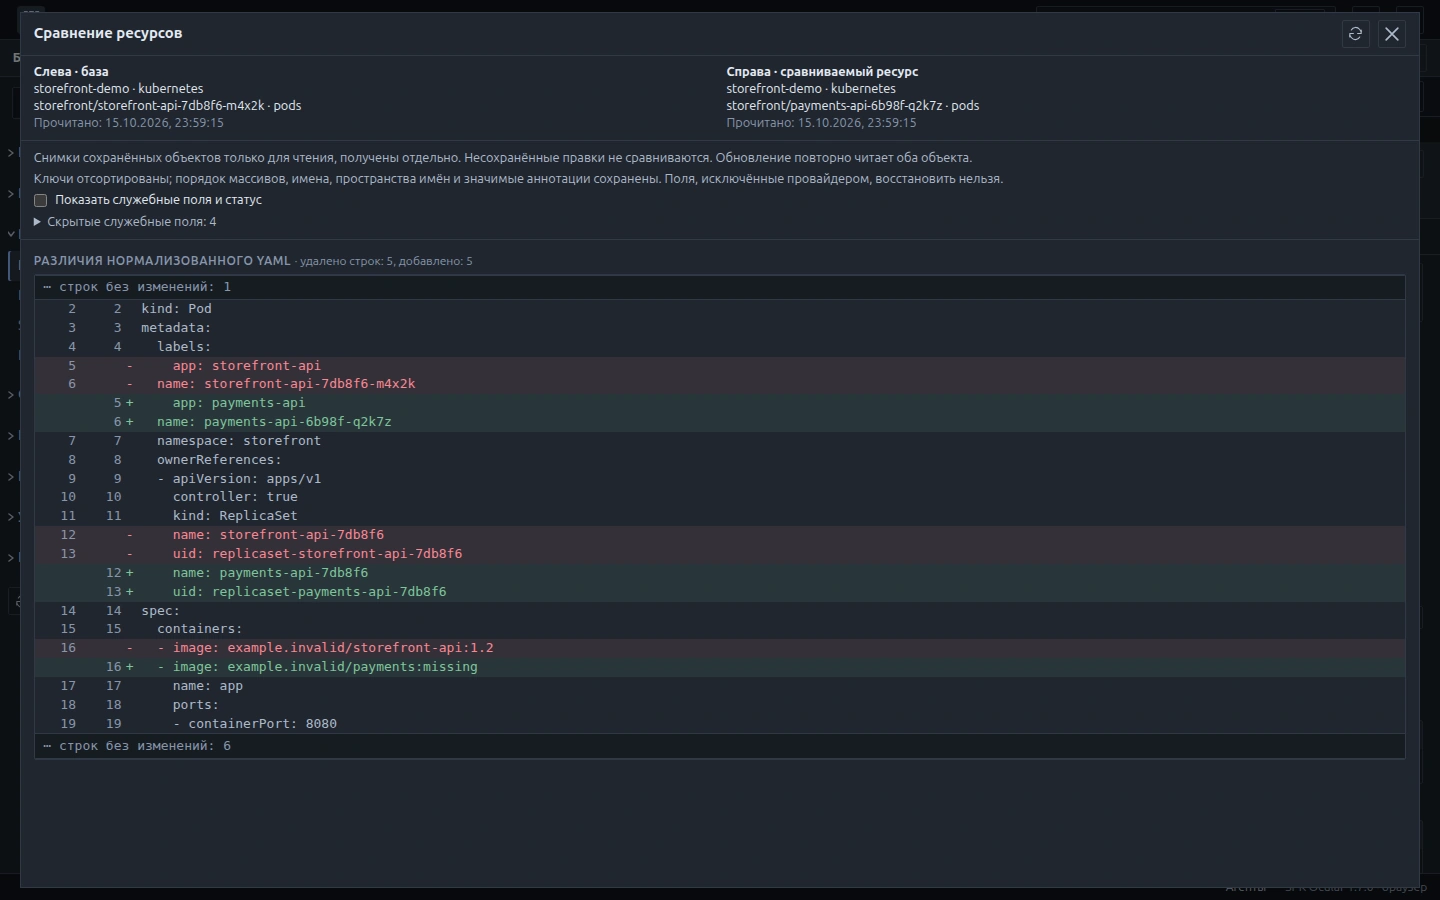
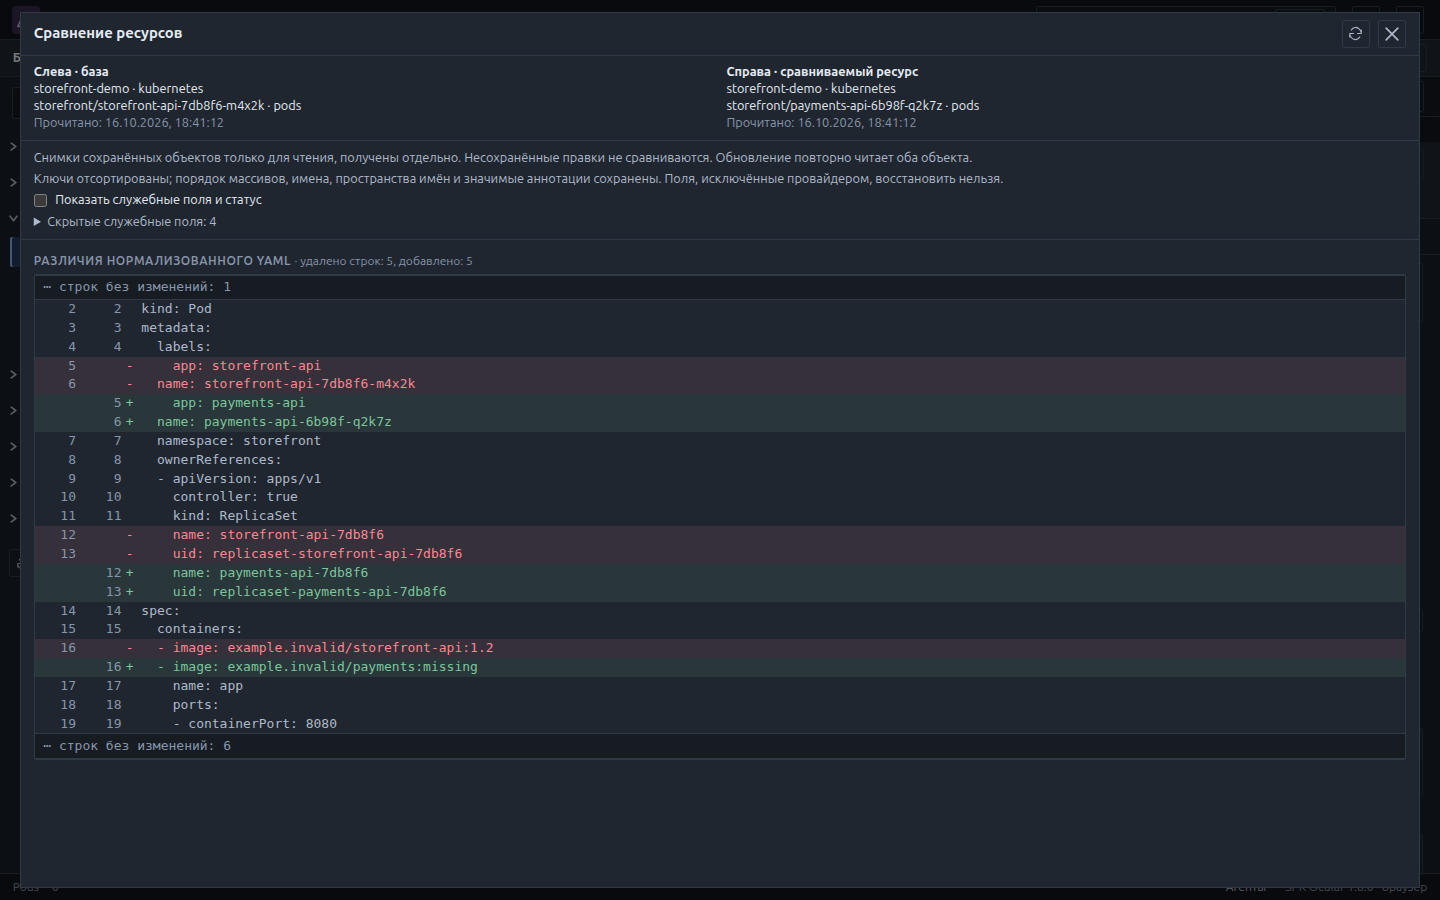
Refresh website screenshots from published Ocular 1.8.0

diff --git a/src/i18n/copy.ts b/src/i18n/copy.ts
@@ -58,7 +58,7 @@ export const en = {
   filesCaption: "Actual app · simulated Docker Engine data",
   toolsTitle: 'The everyday tools, already here.',
   tools: [["Quick navigation · Ctrl+K", "Jump to views, environments and namespaces, or find resources by type and name, such as dep model, within your selected namespaces. Use Command+K on macOS."], ['Kubernetes resources', 'Pods, deployments, services and custom resources, with details and relationships.'], ['Docker', 'Inspect standalone containers alongside Compose projects and services. Follow logs, open a terminal and review container actions.'], ['Reviewed changes', 'Inspect a change before applying it. Existing infrastructure permissions still apply.'], ['A workspace that remembers', 'Keep namespace selections, filters, favorites and column widths between visits.']],
-  gallery: 'A closer look at your next workspace.', galleryText: "Real screens from SPK Ocular 1.7.0. Demo data, not product mockups.",
+  gallery: 'A closer look at your next workspace.', galleryText: "Real screens from SPK Ocular 1.8.0. Demo data, not product mockups.",
   galleryTabs: ['Workloads', 'Logs & details', 'Helm releases', 'Docker containers'],
   galleryAlts: ['Kubernetes pods and health in SPK Ocular on a local demo cluster', 'Kubernetes resource details and application logs in SPK Ocular', 'Helm release values in SPK Ocular using a simulated release', 'Standalone Docker container and Compose containers in SPK Ocular on a local demo engine'],
   agentLabel: 'YOUR AGENTS. YOUR RULES.', agentTitle: 'Give your agent useful access. Keep control of changes.',
@@ -144,7 +144,7 @@ export const ru: Copy = {
   filesCaption: "Настоящее приложение · имитация данных Docker Engine",
   toolsTitle: 'Рабочие инструменты уже на месте.',
   tools: [["Быстрый переход · Ctrl+K", "Переходите к разделам, окружениям и пространствам имён или находите ресурсы по типу и имени, например dep model, в выбранных пространствах имён. На macOS используйте Command+K."], ['Ресурсы Kubernetes', 'Pods, deployments, services и пользовательские ресурсы с подробностями и связями.'], ['Docker', 'Отдельные контейнеры и проекты с сервисами Compose. Просматривайте логи, открывайте терминал и проверяйте действия с контейнерами.'], ['Проверка изменений', 'Просматривайте изменения перед применением. Права доступа инфраструктуры продолжают действовать.'], ['Рабочее место с памятью', 'Выбранные пространства имён, фильтры, избранное и ширины колонок сохраняются.']],
-  gallery: 'Посмотрите, как это устроено.', galleryText: "Настоящие экраны SPK Ocular 1.7.0. Демонстрационные данные, а не макеты интерфейса.",
+  gallery: 'Посмотрите, как это устроено.', galleryText: "Настоящие экраны SPK Ocular 1.8.0. Демонстрационные данные, а не макеты интерфейса.",
   galleryTabs: ['Рабочие нагрузки', 'Логи и детали', 'Релизы Helm', 'Контейнеры Docker'],
   galleryAlts: ['Pods Kubernetes и их состояния в SPK Ocular на локальном демостенде', 'Детали ресурса Kubernetes и логи приложения в SPK Ocular', 'Значения тестового релиза Helm в SPK Ocular', 'Отдельный контейнер Docker и контейнеры Compose в SPK Ocular на локальном демостенде'],
   agentLabel: 'ВАШИ АГЕНТЫ. ВАШИ ПРАВИЛА.', agentTitle: 'Дайте агенту контекст. Оставьте контроль себе.',

diff --git a/README.md b/README.md
@@ -89,14 +89,15 @@ No vendor claims, customer logos, testimonials or performance statistics are reu
 
 ## Screenshot source
 
-All twenty-four RU/EN product screenshots show the actual SPK Ocular 1.7.0
-production application in isolated profiles. Kubernetes and Docker use owned
+All twenty-four RU/EN product screenshots show the actual SPK Ocular 1.8.0
+production application from the published Linux amd64 release archive, captured
+at 1440 × 900 in isolated browser profiles. Kubernetes and Docker use owned
 synthetic HTTP API fixtures, without a real cluster, daemon or containers. Helm
 and Security use the built-in synthetic provider; simulated findings do not
 represent a live scan or real vulnerabilities. File browsing executes only the
 fixture's bounded read-only scripts against its scratch demonstration tree.
 The captures are real application UI, not interface mockups. Captions identify
-simulated data. All product and social-image URLs use the 1.7.0 version query.
+simulated data. All product and social-image URLs use the 1.8.0 version query.
 The other six website locales use the English screenshots with an explicit notice.
 
 ## Develop and verify

diff --git a/docs/localization.md b/docs/localization.md
@@ -88,8 +88,8 @@ behavior. Provider retention, export caps and incomplete reads are explicit.
 Both RU/EN screenshot sets use actual app captures; the other six locales retain
 the explicit English-UI notice. Preserve sh/readlink/tar requirements, the UTF-8
 editor limit of 2 MiB, desktop-only file downloads and refusal to overwrite existing
-names. All screenshot and social-image URLs carry the 1.7.0 version query.
-Security uses current 1.7.0 RU/EN captures and a localized caption
+names. All screenshot and social-image URLs carry the 1.8.0 version query.
+Security uses current 1.8.0 RU/EN captures and a localized caption
 identifying simulated security findings. All eight locales describe workload
 configuration, declared RBAC rules, NetworkPolicy selection and existing Trivy
 Operator reports without claiming live scans, exploitability or compliance.
